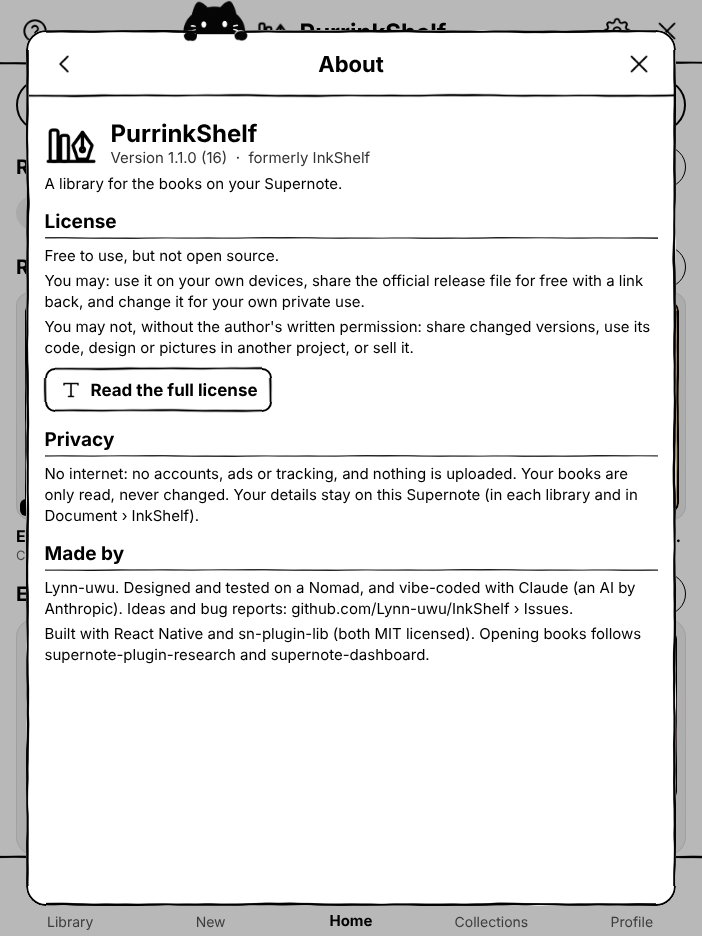
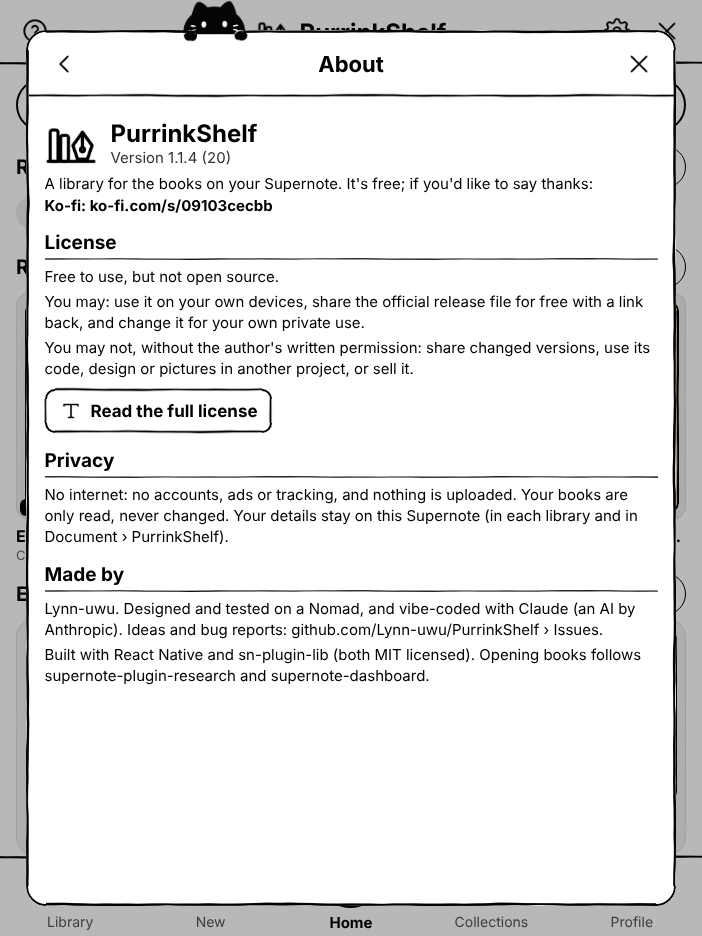
Ko-fi link in the README and on the About page
Claude-Session: https://claude.ai/code/session_01X56ddDHNWUKJn2BBuoFg9X

diff --git a/App.tsx b/App.tsx
@@ -7,7 +7,7 @@ import React, {useEffect, useMemo, useRef, useState} from 'react';
 import {Dimensions, Image, Pressable as RNPressable, ScrollView, StyleSheet, Text as RNText, TextInput as RNTextInput, View as RNView} from 'react-native';
 import {PluginManager, RattaFileSelector as FileSelector} from 'sn-plugin-lib';
 import {bareTitle, goodreadsCsv, parseTable, readSiteExport} from './src/sites';
-import {LICENSE_TEXT, SOURCE, VERSION} from './src/about';
+import {LICENSE_TEXT, SOURCE, SUPPORT, VERSION} from './src/about';
 import {PROFILE_PARTS, Wish, authorOf, hoursText, ratingOf, readMinutes, setDashAuthor, shownTitle, splitDash, similar} from './src/library';
 import {Collection as Coll, COLLECTION_TEMPLATES, READ_STATES, ReadState, RULE_FIELDS, Rule, RuleField, STARTER_COLLECTIONS, inCollection, readLabel, setReading, timesRead} from './src/library';
 import {AppState, Book, DEFAULT_SETTINGS, PAPER_DIR, EMPTY_STATE, Lib, MAX_NOTES, Meta, MetaStore, Note, NoteColor, Settings, Snap, SortBy, Vol, arrange, catsOf, folderCats, hasDetails, missingBooks, needsDetails, norm, reconcile, pluginFile, readOnlyLibs, Backup, BACKUP_NAME, DEFAULT_BACKUP_DIR, isSetUp, readBackup, restoreMeta, writeBackup, coverFor, loadCache, loadLibraries, loadMeta, loadSettings, loadState, saveLibraries, saveMeta, saveSettings, saveState, scanLibrary} from './src/library';
@@ -3870,7 +3870,8 @@ function SettingsSheet({settings, change, onClose, onLibraries, onClearSearches,
               <Text style={st.small}>{`Version ${VERSION}`}</Text>
             </View>
           </View>
-          {line('A library for the books on your Supernote.')}
+          {line("A library for the books on your Supernote. It's free; if you'd like to say thanks:")}
+          <Text style={[st.small, {color: BLACK, fontSize: px(15), fontWeight: 'bold', marginTop: px(2)}]}>{`Ko-fi: ${SUPPORT}`}</Text>
           {sec('License')}
           {line('Free to use, but not open source.')}
           {line('You may: use it on your own devices, share the official release file for free with a link back, and change it for your own private use.')}

diff --git a/src/about.ts b/src/about.ts
@@ -2,5 +2,6 @@
 import CONFIG from '../PluginConfig.json';
 export const VERSION = `${CONFIG.versionName} (${CONFIG.versionCode})`;
 export const SOURCE = 'github.com/Lynn-uwu/PurrinkShelf';
+export const SUPPORT = 'ko-fi.com/s/09103cecbb';
 /** keep in step with LICENSE at the top of the repository */
 export const LICENSE_TEXT = "PurrinkShelf License\nCopyright (c) 2026 Lynn-uwu. All rights reserved.\n\nPurrinkShelf is free to use, but it is not open source. The source code is\npublic so you can see how it works and check what it does with your files.\n\nYOU MAY, free of charge:\n\n1. Install and use PurrinkShelf on your own devices.\n2. Share the official, unmodified release file (.snplg) with others,\n   as long as it stays free and you link back to this repository.\n3. Change the code for your own private use on your own devices. Keep those\n   changes to yourself.\n\nYOU MAY NOT, unless you have the author's written permission:\n\n4. Share, publish or distribute a changed version of PurrinkShelf, in whole or\n   in part, as source code or as a plugin file.\n5. Use PurrinkShelf's code, design, icons or other assets as the base of, or\n   as part of, another plugin, app or project.\n6. Sell PurrinkShelf or use it in anything that is sold, or charge for it.\n7. Remove or change this license or the copyright notice.\n\nTo ask for permission, open an issue on this repository on GitHub.\n\nOther people's code: PurrinkShelf is built with open-source libraries (such as\nReact Native and sn-plugin-lib, both MIT licensed). Those parts stay under\ntheir own licenses; this license covers only PurrinkShelf's own code, design and\nassets.\n\nNO WARRANTY: PurrinkShelf is provided \"as is\", without any warranty of any kind.\nThe author is not liable for any loss or damage from using it, including lost\nor changed files. Keep your own backups of your books and notes.\n";

diff --git a/README.md b/README.md
@@ -16,6 +16,8 @@ A library for the books on your Supernote, in the spirit of NovelUpdates and Mih
   <img src="docs/screens/profile.png" width="32%" alt="Profile with reading stats">
 </p>
 
+☕ **Like it?** You can support PurrinkShelf on [Ko-fi](https://ko-fi.com/s/09103cecbb).
+
 *The screenshots use made-up demo books.* ▶ **[Watch the 6-minute walkthrough](docs/PurrinkShelf-walkthrough.mp4)** of every feature.
 
 ## What it does
@@ -76,6 +78,9 @@ PurrinkShelf also keeps a backup in `Document/PurrinkShelf/PurrinkShelf backup.j
 
 ## Status
 Built and tested on a Supernote Nomad (A6 X2). It may work on the Manta (A5 X2) too, but it hasn't been tested there. Bug reports and ideas are welcome in [Issues](../../issues).
+
+## Support
+PurrinkShelf is free to use. If it makes your reading nicer and you'd like to say thanks, you can pay what you want on **[Ko-fi](https://ko-fi.com/s/09103cecbb)**. 💛
 
 ## How it was made
 PurrinkShelf was vibe-coded: I designed it, decided how everything should look and work, and tested it on my own Nomad, while the code was written with Claude (an AI by Anthropic).
